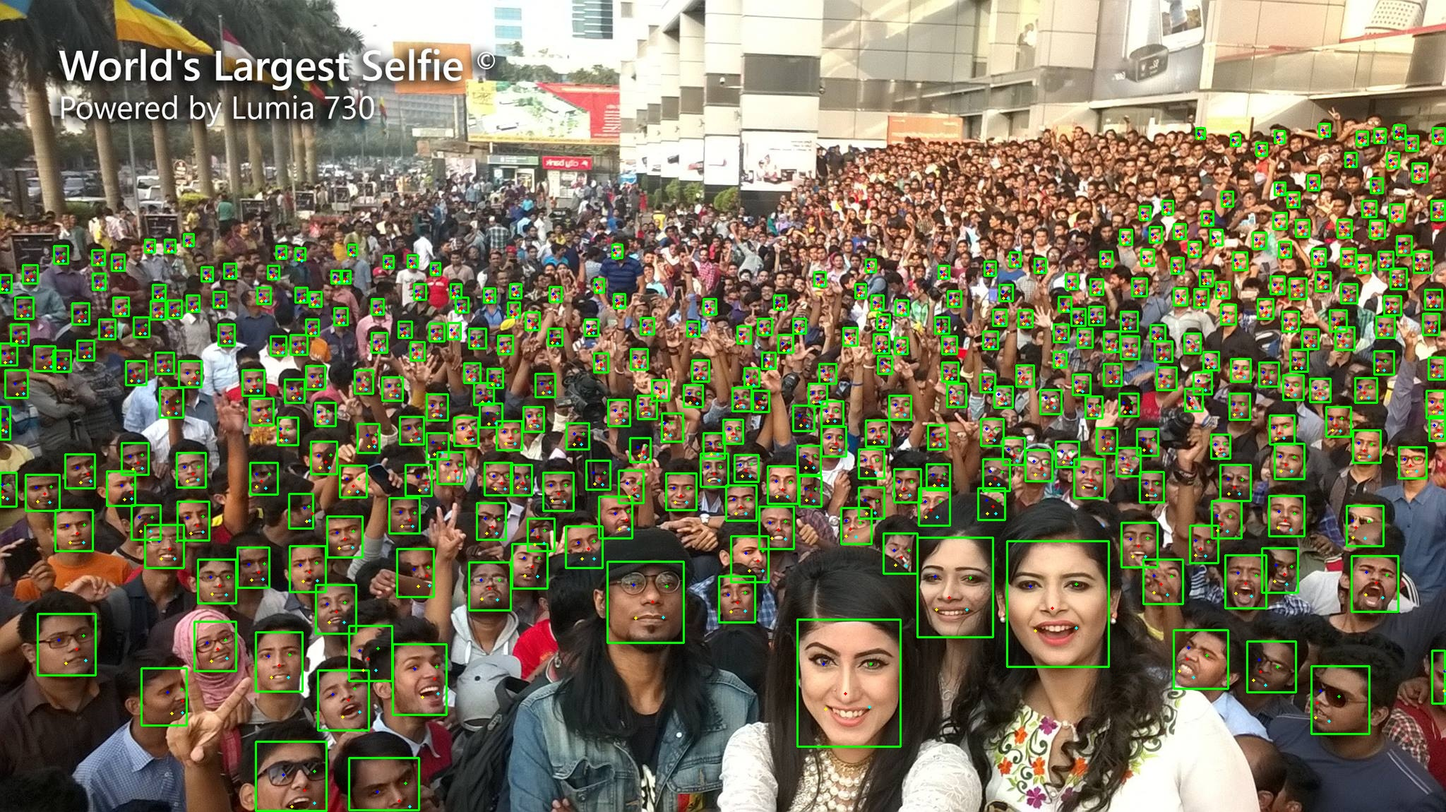
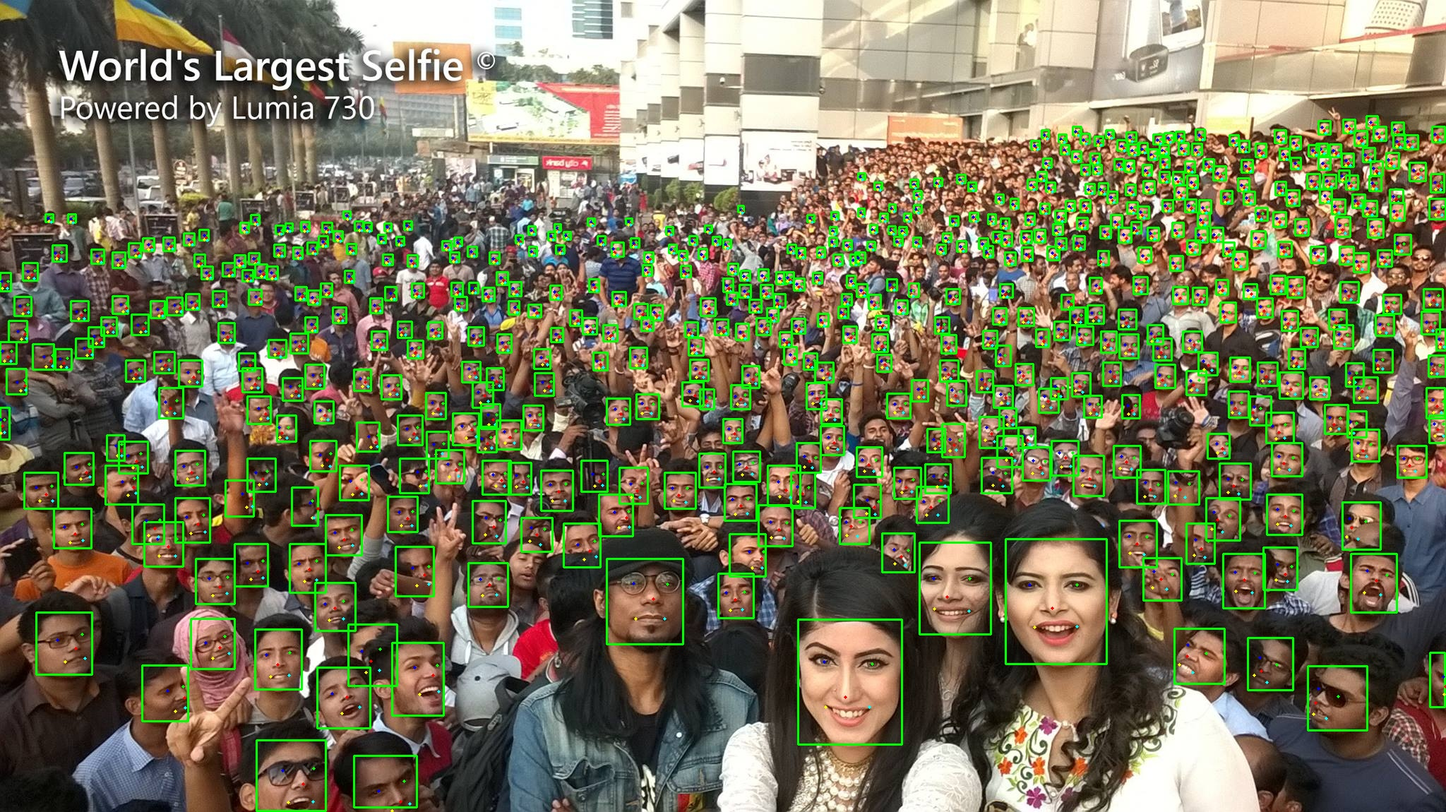
fix bugs

diff --git a/yolov7-face.cpp b/yolov7-face.cpp
@@ -42,13 +42,14 @@ struct bbox
 
 #define DEVICE 0  // GPU id
 #define NMS_THRESH 0.45
-#define BBOX_CONF_THRESH 0.25
+#define BBOX_CONF_THRESH 0.3
 
 using namespace nvinfer1;
 
 static const int INPUT_W = 640;
 static const int INPUT_H = 640;
-static const int NUM_CLASSES = 1;  
+static const int NUM_CLASSES = 1;  //类别数
+static const int CKPT_NUM=5;  //关键点个数
 
 
 const char* INPUT_BLOB_NAME = "images"; //onnx 输入  名字
@@ -190,10 +191,10 @@ int main(int argc, char** argv)
         // std::cout<<"preprocessing time is "<<time_pre_<<" ms"<<std::endl;
       
         // doInference_cu(*context_det,stream, (void**)buffers,prob,1,output_size);
-        (*context_det).enqueue(batch_size, (void**)buffers, stream, nullptr);
+        (*context_det).enqueueV2((void**)buffers, stream, nullptr);
         float *predict = (float *)buffers[outputIndex];
         CHECK(cudaMemsetAsync(decode_ptr_device,0,sizeof(int),stream));
-        decode_kernel_invoker(predict,OUTPUT_CANDIDATES,1,5,BBOX_CONF_THRESH,affine_matrix_d2i_device,decode_ptr_device,MAX_OBJECTS,stream);  //cuda 后处理
+        decode_kernel_invoker(predict,OUTPUT_CANDIDATES,NUM_CLASSES,CKPT_NUM,BBOX_CONF_THRESH,affine_matrix_d2i_device,decode_ptr_device,MAX_OBJECTS,stream);  //cuda 后处理
 
         nms_kernel_invoker(decode_ptr_device, NMS_THRESH, MAX_OBJECTS, stream);//cuda nms
         
